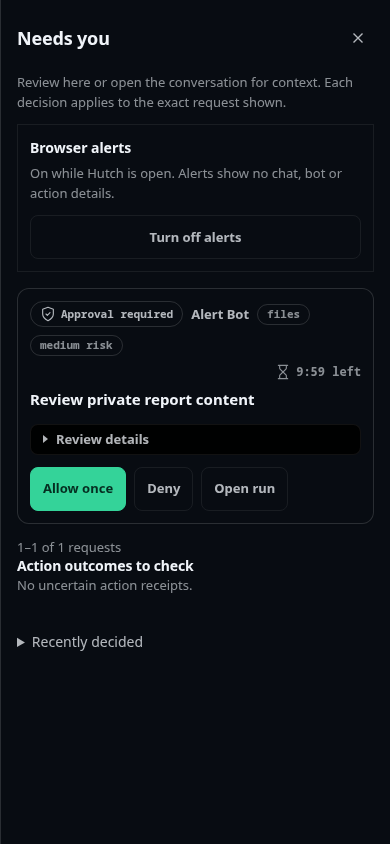
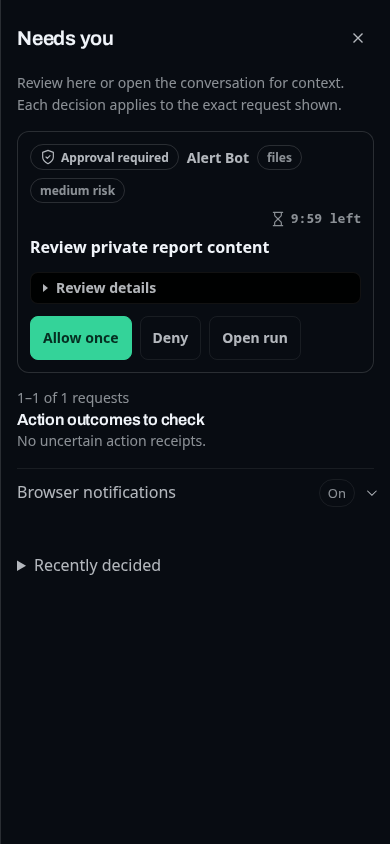
Prioritize the needs-you approval queue

diff --git a/src/hutch/server/static/index.html b/src/hutch/server/static/index.html
@@ -117,15 +117,18 @@
       <button class="icon-btn" id="needs-you-close" aria-label="Close needs-you drawer" type="button"><svg viewBox="0 0 24 24" width="18" height="18" fill="none" stroke="currentColor" stroke-width="1.8" aria-hidden="true"><path d="m6 6 12 12M6 18 18 6"/></svg></button>
     </header>
     <p class="hint">Review here or open the conversation for context. Each decision applies to the exact request shown.</p>
-    <section class="browser-alerts" aria-label="Browser alerts">
-      <div><strong>Browser alerts</strong><p id="browser-alerts-status" class="hint" role="status"></p></div>
-      <button class="btn ghost small" id="browser-alerts-toggle" type="button">Enable browser alerts</button>
-    </section>
     <div id="needs-you-error" role="alert" hidden></div>
     <div id="approvals-pending"></div>
     <div class="btn-row" id="approvals-pagination"></div>
     <section aria-labelledby="receipt-queue-title"><h3 id="receipt-queue-title">Action outcomes to check</h3>
       <div id="receipts-pending"></div><div class="btn-row" id="receipts-pagination"></div></section>
+    <details class="browser-alerts-disclosure" id="browser-alerts-disclosure">
+      <summary><span>Browser notifications</span><span id="browser-alerts-summary-state" class="browser-alerts-state">Off</span></summary>
+      <section class="browser-alerts" aria-label="Browser alerts">
+        <div><strong>Optional browser alerts</strong><p id="browser-alerts-status" class="hint" role="status"></p></div>
+        <button class="btn ghost small" id="browser-alerts-toggle" type="button">Enable browser alerts</button>
+      </section>
+    </details>
     <details class="needs-you-history"><summary>Recently decided</summary><div id="approvals-resolved"></div></details>
   </dialog>
   <div id="modal-root"></div>

diff --git a/src/hutch/server/static/style.css b/src/hutch/server/static/style.css
@@ -1873,6 +1873,15 @@ button.inline-link:hover { color: var(--text); }
 .browser-alerts { display: flex; align-items: center; justify-content: space-between; gap: var(--s-3); padding: var(--s-3); margin: var(--s-3) 0; border: 1px solid var(--line); border-radius: var(--r-md); }
 .browser-alerts p { margin: var(--s-1) 0 0; }
 .browser-alerts .btn { flex: 0 0 auto; min-height: 44px; }
+.browser-alerts-disclosure { margin-top: var(--s-4); border-top: 1px solid var(--line); }
+.browser-alerts-disclosure > summary { display: flex; align-items: center; gap: var(--s-2); min-height: 48px; color: var(--text-2); cursor: pointer; list-style: none; }
+.browser-alerts-disclosure > summary::-webkit-details-marker { display: none; }
+.browser-alerts-disclosure > summary::after { content: ""; width: 7px; height: 7px; margin-left: var(--s-1); border-right: 1.5px solid currentColor; border-bottom: 1.5px solid currentColor; transform: rotate(45deg) translateY(-2px); transition: transform var(--dur-fast) var(--ease); }
+.browser-alerts-disclosure[open] > summary::after { transform: rotate(225deg) translate(-1px, -1px); }
+.browser-alerts-disclosure > summary:hover { color: var(--text); }
+.browser-alerts-disclosure > summary:focus-visible { outline: 2px solid var(--focus); outline-offset: 2px; }
+.browser-alerts-state { margin-left: auto; padding: 3px 8px; color: var(--text-3); border: 1px solid var(--line); border-radius: var(--r-chip); font-size: var(--fs-xs); }
+.browser-alerts-disclosure .browser-alerts { margin: 0 0 var(--s-3); }
 .needs-you-history { margin-top: var(--s-5); }
 .needs-you-history > summary { cursor: pointer; color: var(--text-2); padding: var(--s-3) 0; }
 .needs-you .approval-card-chat { margin-top: var(--s-4); }

diff --git a/src/hutch/server/static/app.js b/src/hutch/server/static/app.js
@@ -1652,12 +1652,15 @@ function browserAlertsEnabled() {
 function updateBrowserAlertsUi() {
   const button = $("#browser-alerts-toggle"), status = $("#browser-alerts-status");
   if (!button || !status) return;
+  const state = $("#browser-alerts-summary-state");
   if (!window.isSecureContext || typeof Notification === "undefined") {
+    if (state) state.textContent = "Unavailable";
     button.disabled = true;
     status.textContent = "This browser does not support alerts for this connection.";
     return;
   }
   const enabled = browserAlertsEnabled();
+  if (state) state.textContent = enabled ? "On" : Notification.permission === "denied" ? "Blocked" : "Off";
   button.textContent = enabled ? "Turn off alerts" : "Enable browser alerts";
   button.disabled = !enabled && Notification.permission === "denied";
   status.textContent = enabled

diff --git a/tests/e2e/test_browser.py b/tests/e2e/test_browser.py
@@ -7999,10 +7999,21 @@ def test_browser_alerts_are_opt_in_private_and_open_the_review_queue(browser, li
     out.mkdir(parents=True, exist_ok=True)
     page.goto(base + "/#/chat")
     page.locator("#needs-you-open").click()
+    alerts = page.locator("#browser-alerts-disclosure")
+    assert alerts.evaluate("el => !el.open"), "notification settings should stay out of the decision queue by default"
+    assert page.locator("#browser-alerts-status").is_hidden()
+    assert page.locator("#browser-alerts-summary-state").inner_text() == "Off"
+    alerts.locator("summary").click()
     page.locator("#browser-alerts-status").get_by_text("Optional alerts", exact=False).wait_for()
     page.locator("#browser-alerts-toggle").click()
     page.locator("#browser-alerts-status").get_by_text("On while Hutch is open", exact=False).wait_for()
+    assert page.locator("#browser-alerts-summary-state").inner_text() == "On"
     assert page.evaluate("Notification.permission") == "granted"
+    page.screenshot(path=str(out / "notifications-open-desktop.png"), full_page=True, animations="disabled")
+    page.set_viewport_size({"width": 390, "height": 844})
+    page.screenshot(path=str(out / "notifications-open-phone.png"), full_page=True, animations="disabled")
+    page.set_viewport_size({"width": 1440, "height": 1000})
+    alerts.locator("summary").click()
     page.locator("#needs-you-close").click()
     page.evaluate("Object.defineProperty(document, 'hidden', {configurable:true, get:()=>true})")
 
@@ -8034,15 +8045,26 @@ def test_browser_alerts_are_opt_in_private_and_open_the_review_queue(browser, li
         records.append({"viewport": name, "size": [width, height], "overflow_px": overflow,
                         "page_errors": errors,
                         "screenshot_sha256": hashlib.sha256((out / f"{name}.png").read_bytes()).hexdigest()})
+    alerts.locator("summary").click()
     page.locator("#browser-alerts-toggle").click()
     page.locator("#browser-alerts-status").get_by_text("Optional alerts", exact=False).wait_for()
+    assert page.locator("#browser-alerts-summary-state").inner_text() == "Off"
     assert page.evaluate("JSON.parse(localStorage.getItem('hutch:browser-alerts'))") is False
+    page.evaluate("Notification.permission = 'denied'; updateBrowserAlertsUi()")
+    assert page.locator("#browser-alerts-summary-state").inner_text() == "Blocked"
+    assert page.locator("#browser-alerts-toggle").is_disabled()
+    page.evaluate("delete window.Notification; updateBrowserAlertsUi()")
+    assert page.locator("#browser-alerts-summary-state").inner_text() == "Unavailable"
+    assert page.locator("#browser-alerts-toggle").is_disabled()
     (out / "results.json").write_text(json.dumps({
         "browser": browser.browser_type.name, "browser_version": browser.version,
         "playwright": package_version("playwright"), "provider_calls": 0,
         "notification_api": "test stub; no operating-system permission or notification used",
         "private_action_text_in_notice": False, "duplicate_notices": False,
-        "notification_click_opens_review_queue": True, "page_errors": errors, "captures": records,
+        "notification_click_opens_review_queue": True,
+        "notification_settings_collapsed_by_default": True,
+        "notification_settings_captures": ["notifications-open-desktop.png", "notifications-open-phone.png"],
+        "page_errors": errors, "captures": records,
         "source_sha256": {name: hashlib.sha256((Path(__file__).resolve().parents[2] / name).read_bytes()).hexdigest()
                           for name in ("src/hutch/server/static/index.html", "src/hutch/server/static/app.js",
                                        "src/hutch/server/static/style.css")},
@@ -8065,11 +8087,11 @@ def test_needs_you_drawer_preserves_review_focus_and_reports_refresh_failure(bro
     page.locator("#needs-you-open").click()
     card = page.locator("#needs-you [data-approval-card]").first
     card.wait_for()
-    card.locator("summary").click()
+    card.locator("details.approval-review > summary").click()
     allow = card.locator('[data-approve="1"]')
     allow.focus()
     time.sleep(5.3)  # unchanged queue poll must preserve review and decision focus
-    assert card.locator("details").get_attribute("open") is not None
+    assert card.locator("details.approval-review").get_attribute("open") is not None
     assert allow.evaluate("e => e === document.activeElement")
     page.keyboard.press("Escape")
     assert page.evaluate("document.activeElement.id") == "nav-toggle"

diff --git a/docs/realignment/ui-overhaul.md b/docs/realignment/ui-overhaul.md
@@ -39,7 +39,7 @@ assistant identities; the marketing site may use the detailed 3D character.
 | Assistant management for larger rosters | Cards simplified; phone overflow and long names checked independently | In progress |
 | Assistant creation and identity | Request-preserving setup already implemented; visual simplification remains | Open |
 | Assistant settings / advanced controls | Individually reviewed at desktop and phone | Open |
-| Needs you / approvals / human checkpoints | Existing responsive evidence; refresh after component redesign | Open |
+| Needs you / approvals / human checkpoints | Approval-first queue; optional browser notifications collapsed by default and available from one disclosure | In progress |
 | Activity / schedules / history / task details | Activity independently reviewed; remaining pages to inspect | Open |
 | Apps & AI / local and hosted model settings | Source-aligned desktop, tablet, phone, and compact-phone review; compact phone cards | Open |
 | Preferences, sign-in, pairing, and server pages | Route coverage exists; independent visual review remains | Open |
@@ -218,6 +218,26 @@ completed run, rather than showing a **Done** state without an answer. Desktop,
 tablet and phone captures were inspected separately; the browser test confirms
 the reply is read from the saved transcript. This is synthetic completion
 content and makes no model or provider call.
+
+### Approval queue hierarchy — verified
+
+The **Needs you** drawer now leads with pending decisions and uncertain action
+outcomes. Optional browser-notification controls sit in a collapsed
+**Browser notifications** disclosure, whose summary still reports **On**,
+**Off**, **Blocked**, or **Unavailable**. The review queue, notification setup,
+and notification click-through retain their prior behavior; no chat or action
+details enter the operating-system notification.
+
+The focused approval and route batch passed **4 tests in 30.46s** with Chromium
+**153.0.8010.12** and Playwright **1.63.0**. It checks that the settings
+disclosure starts closed, its summary distinguishes On/Off/Blocked/Unavailable,
+a notification opens the pending request, review focus survives refresh, chat
+approval remains actionable, and the responsive route suite has no horizontal
+overflow. I inspected the expanded settings and pending approval screenshots
+independently at desktop and phone sizes. These use a local notification stub
+and fixture approvals; there was no operating-system prompt, provider request,
+or real notification. The approval and human-wait redesign remains open beyond
+this queue refinement.
 
 ### Next
 

diff --git a/docs/realignment/visual-validation.md b/docs/realignment/visual-validation.md
@@ -1802,3 +1802,22 @@ made no external requests or model/provider calls. The focused test passed **1
 case in 8.83s** with Chromium **153.0.8010.12** and Playwright **1.63.0**. It checks that
 the ChatGPT tile uses OpenAI's unchanged local white mark and that Gmail and
 Outlook category illustrations stay separate from any claimed provider logo.
+
+## Approval queue priority and optional notifications (2026-10-10)
+
+The **Needs you** drawer now places pending decisions and uncertain action
+outcomes before optional browser-notification settings. Notifications live in a
+collapsed disclosure; its summary shows **On**, **Off**, **Blocked**, or
+**Unavailable**, while the open panel retains the full privacy and tab-open
+explanation.
+
+The focused approval and route batch passed **4 tests in 30.46s** with Chromium
+**153.0.8010.12** / Playwright **1.63.0**. It verifies the closed default, the
+On/Off/Blocked/Unavailable states, notification click-through, preserved review
+focus, in-chat approval, and independent responsive route rendering. The
+approval screenshots have zero horizontal overflow at desktop **1440×1000**,
+tablet **768×1024**, and phone **390×844**. I inspected the expanded desktop and
+phone notification settings and desktop and phone pending-approval screenshots
+individually. These fixtures use local approval data and a stubbed notification
+API; no OS prompt, provider call, or real notification was used. Screenshots
+and source hashes are in [`artifacts/browser-alerts/`](artifacts/browser-alerts/).

diff --git a/docs/design-system.md b/docs/design-system.md
@@ -127,7 +127,11 @@ template IDs; preserve the IDs only in the action and saved configuration.
 Approvals appear in the chat where the action was requested and remain available
 in the dedicated queue for review at scale. Lead with the action and consequence;
 keep exact arguments and destination reviewable; never hide an approval behind a
-generic notification or rely on color alone.
+generic notification or rely on color alone. The **Needs you** queue puts pending
+decisions and uncertain outcomes first. Optional browser notifications stay in a
+collapsed **Browser notifications** disclosure with their current state visible
+in its summary; recently decided requests remain collapsed until someone asks to
+review them.
 
 ### Apps, activity, and settings
 

diff --git a/CHANGELOG.md b/CHANGELOG.md
@@ -16,6 +16,9 @@
   disclosures during transcript refresh.
 - Keep ordinary assistant names whole on one sidebar line; use an ellipsis only
   when a custom name exceeds the available row width.
+- Put pending approvals and uncertain outcomes ahead of optional browser-alert
+  settings in **Needs you**. Keep notification controls in one collapsed
+  disclosure, with a visible On/Off/Blocked/Unavailable state.
 - Bring Archivo display headings into the app and supporting pages, so headings now share the
   locally bundled type voice used by marketing while interface copy stays system sans. Activity
   also shows a short recent-work list when history exists.
